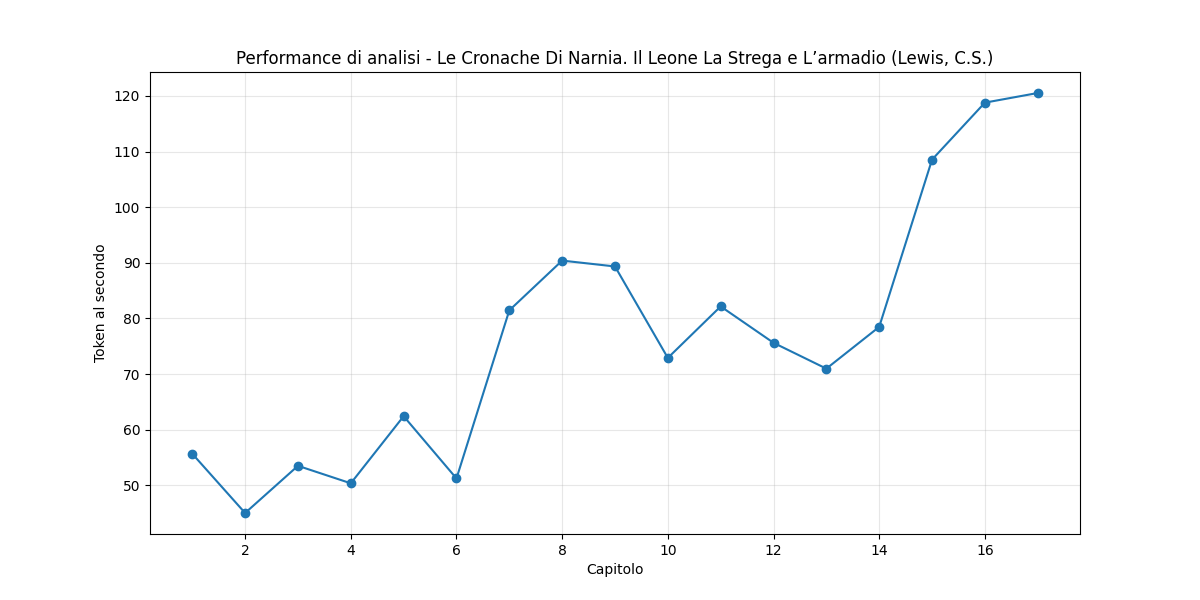
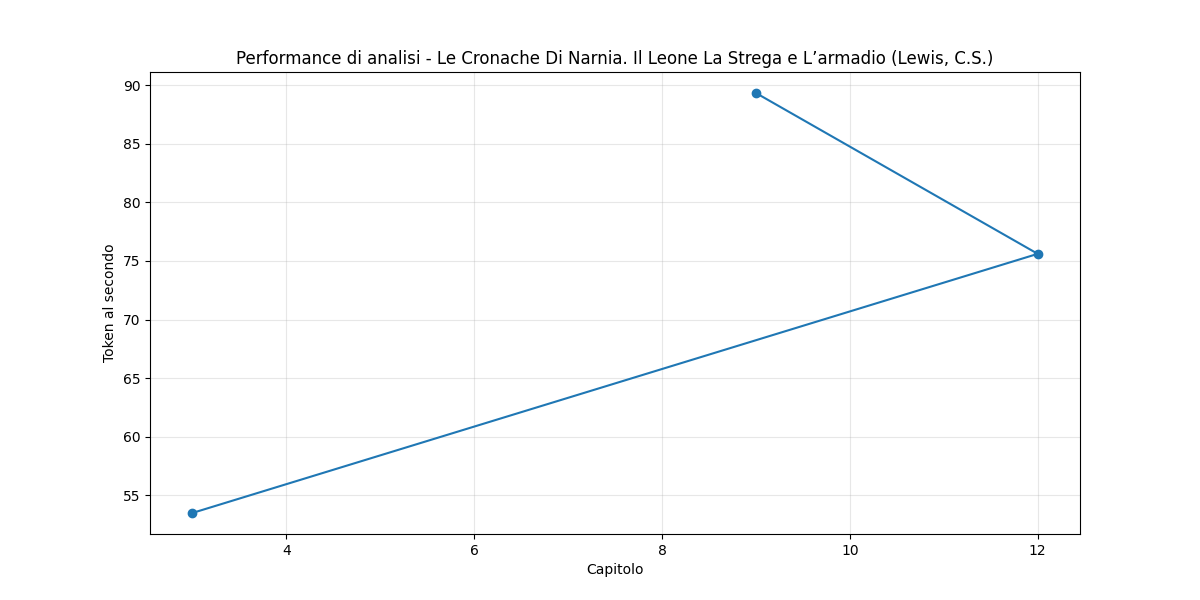
stats are now on 3 chapters and changed to analysis.py weights

diff --git a/stats_generator.py b/stats_generator.py
@@ -14,6 +14,7 @@ import numpy as np
 import matplotlib.pyplot as plt
 import pandas as pd
 import seaborn as sns
+import random
 try:
     import networkx as nx
 except ImportError:
@@ -35,20 +36,60 @@ logging.basicConfig(
 # Costanti
 PAGE_SIZE = 3300  # Deve essere lo stesso della GUI e di analysis.py
 
-# Configurazione dei pesi per la scelta del luogo principale (copiata da analysis.py)
+## Configurazione dei pesi per la scelta del luogo principale
 LOCATION_WEIGHTS = {
-    "occurrence": 0.3,    # Peso per il numero di occorrenze
-    "confidence": 10,     # Peso per la confidenza di BERT
-    "early_appearance": 3,  # Peso per l'apparizione all'inizio
-    "spacy_loc_bonus": 0.2   # Bonus se riconosciuto come LOC da spaCy
+    "occurrence": 0.0223,    # Peso per il numero di occorrenze
+    "confidence": 0.7407,    # Peso per la confidenza di BERT
+    "early_appearance": 0.2222,  # Peso per l'apparizione all'inizio
+    "spacy_loc_bonus": 0.0148   # Bonus se riconosciuto come LOC da spaCy
 }
 
 # Configurazione dei pesi per la scelta del personaggio principale
 CHARACTER_WEIGHTS = {
-    "occurrence": 1,       # Peso per il numero di occorrenze
-    "early_appearance": 2, # Peso per l'apparizione all'inizio
-    "spacy_per_bonus": 0.5 # Bonus se riconosciuto come PER da spaCy
+    "occurrence": 0.2857,    # Peso per il numero di occorrenze
+    "early_appearance": 0.5714,  # Peso per l'apparizione all'inizio
+    "spacy_per_bonus": 0.1428 # Bonus se riconosciuto come PER da spaCy
 }
+
+
+
+
+
+
+
+
+
+
+
+
+def select_random_chapters(chapter_files, book_name, num_chapters=3, seed=None):
+    """
+    Seleziona un numero specificato di capitoli in modo casuale ma consistente.
+    
+    Args:
+        chapter_files: Lista di tutti i file dei capitoli
+        book_name: Nome del libro (usato per generare un seed consistente)
+        num_chapters: Numero di capitoli da selezionare (default: 3)
+        seed: Seed opzionale per il generatore casuale
+        
+    Returns:
+        Lista dei file di capitoli selezionati casualmente
+    """
+    if len(chapter_files) <= num_chapters:
+        return chapter_files  # Se ci sono meno capitoli del richiesto, restituisci tutti
+    
+    # Crea un seed consistente basato sul nome del libro
+    if seed is None:
+        # Usa una funzione hash semplice sul nome del libro come seed
+        seed = sum(ord(c) for c in book_name)
+    
+    # Imposta il seed per la riproducibilità
+    random_state = random.Random(seed)
+    
+    # Selezione casuale senza ripetizione
+    return random_state.sample(chapter_files, num_chapters)
+
+
 
 
 
@@ -83,9 +124,15 @@ def count_tokens_from_csv(file_path):
 
 
 
-def generate_stats_file(book_name, output_dir):
+def generate_stats_file(book_name, output_dir, random_selection=True, num_chapters=3, seed=None):
     """
     Genera un file CSV di statistiche aggregando i dati dei capitoli analizzati.
+    
+    Args:
+        book_name: Nome del libro
+        output_dir: Directory con i file di analisi
+        random_selection: Se True, seleziona capitoli random
+        num_chapters: Numero di capitoli da selezionare casualmente
     """
     stats_file = os.path.join(output_dir, f"stats-{book_name}.csv")
     chapter_files = []
@@ -102,6 +149,18 @@ def generate_stats_file(book_name, output_dir):
     # Ordina i file per numero di capitolo
     chapter_files.sort(key=lambda x: int(x.split("capitolo")[1].split("-")[0]))
     
+    # Selezione casuale se richiesto
+    if random_selection and len(chapter_files) > num_chapters:
+        selected_chapters = select_random_chapters(chapter_files, book_name, num_chapters, seed)
+        print(f"Selezionati {len(selected_chapters)} capitoli casuali su {len(chapter_files)} disponibili:")
+        for file in selected_chapters:
+            chapter_num = int(file.split("capitolo")[1].split("-")[0])
+            print(f"  - Capitolo {chapter_num}")
+    else:
+        selected_chapters = chapter_files
+        if random_selection:
+            print(f"Utilizzati tutti i {len(selected_chapters)} capitoli disponibili (meno di {num_chapters} richiesti)")
+
     try:
         # Crea il file di statistiche
         with open(stats_file, "w", newline='', encoding="utf-8") as f:
@@ -221,7 +280,7 @@ def count_tokens(text):
 
 
 # In analyze_token_metrics()
-def analyze_token_metrics(book_name, output_dir):
+def analyze_token_metrics(book_name, output_dir, random_selection=True, num_chapters=3, seed=None):
     """
     Analizza la correlazione tra numero di token e qualità dell'analisi.
     """
@@ -236,10 +295,22 @@ def analyze_token_metrics(book_name, output_dir):
     # Ordina i file per numero di capitolo
     chapter_files.sort(key=lambda x: int(x.split("capitolo")[1].split("-")[0]))
     
+    # Selezione casuale se richiesto
+    if random_selection and len(chapter_files) > num_chapters:
+        selected_chapters = select_random_chapters(chapter_files, book_name, num_chapters, seed)
+        print(f"Selezionati {len(selected_chapters)} capitoli casuali su {len(chapter_files)} disponibili:")
+        for file in selected_chapters:
+            chapter_num = int(file.split("capitolo")[1].split("-")[0])
+            print(f"  - Capitolo {chapter_num}")
+    else:
+        selected_chapters = chapter_files
+        if random_selection:
+            print(f"Utilizzati tutti i {len(selected_chapters)} capitoli disponibili (meno di {num_chapters} richiesti)")
+
     # Prepara i dati per il CSV
     metrics_data = []
     
-    for chapter_file in chapter_files:
+    for chapter_file in selected_chapters:
         try:
             chapter_num = int(chapter_file.split("capitolo")[1].split("-")[0])
             file_path = os.path.join(output_dir, chapter_file)
@@ -694,7 +765,8 @@ def generate_confusion_matrix_chart(confusion_matrix, categories, output_file):
 
 
 
-def analyze_context_consistency(book_name, output_dir):
+# In analyze_context_consistency()
+def analyze_context_consistency(book_name, output_dir, random_selection=True, num_chapters=3, seed=None):
     """
     Analizza la coerenza del contesto tra capitoli adiacenti.
     """
@@ -709,12 +781,24 @@ def analyze_context_consistency(book_name, output_dir):
     # Ordina i file per numero di capitolo
     chapter_files.sort(key=lambda x: int(x.split("capitolo")[1].split("-")[0]))
     
+    # Selezione casuale se richiesto
+    if random_selection and len(chapter_files) > num_chapters:
+        selected_chapters = select_random_chapters(chapter_files, book_name, num_chapters, seed)
+        print(f"Selezionati {len(selected_chapters)} capitoli casuali su {len(chapter_files)} disponibili:")
+        for file in selected_chapters:
+            chapter_num = int(file.split("capitolo")[1].split("-")[0])
+            print(f"  - Capitolo {chapter_num}")
+    else:
+        selected_chapters = chapter_files
+        if random_selection:
+            print(f"Utilizzati tutti i {len(selected_chapters)} capitoli disponibili (meno di {num_chapters} richiesti)")
+    
     # Prepara i dati per il CSV
     metrics_data = []
     
     # Carica i dati di ogni capitolo
     chapter_data_dict = {}
-    for chapter_file in chapter_files:
+    for chapter_file in selected_chapters:
         try:
             chapter_num = int(chapter_file.split("capitolo")[1].split("-")[0])
             file_path = os.path.join(output_dir, chapter_file)
@@ -948,23 +1032,33 @@ def main():
                         help="Valuta l'accuratezza del modello BERT per luoghi")
     parser.add_argument("--test-data", type=str,
                         help="File JSON con dati di test per BERT")
+    parser.add_argument("--random-chapters", type=int, default=3,
+                        help="Numero di capitoli da selezionare casualmente (0 = tutti)")
     
     args = parser.parse_args()
     
-    print(f"Generazione statistiche per '{args.book}' in {args.dir}")
+    random_selection = args.random_chapters > 0
+    num_chapters = args.random_chapters if random_selection else len(os.listdir(args.dir))
+    
+    # Genera un seed consistente basato sul nome del libro
+    if random_selection:
+        seed = sum(ord(c) for c in args.book)
+        print(f"Modalità selezione casuale: {num_chapters} capitoli (seed: {seed})")
+    else:
+        seed = None
     
     try:
         # Genera il file di statistiche
         print("\n1. Generazione file di statistiche...")
-        stats_file = generate_stats_file(args.book, args.dir)
+        stats_file = generate_stats_file(args.book, args.dir, random_selection, num_chapters, seed)
         
         # Analizza le metriche dei token
         print("\n2. Analisi delle metriche dei token...")
-        token_metrics_file = analyze_token_metrics(args.book, args.dir)
+        token_metrics_file = analyze_token_metrics(args.book, args.dir, random_selection, num_chapters, seed)
         
         # Analizza la coerenza del contesto
         print("\n3. Analisi della coerenza del contesto tra capitoli...")
-        context_metrics_file = analyze_context_consistency(args.book, args.dir)
+        context_metrics_file = analyze_context_consistency(args.book, args.dir, random_selection, num_chapters, seed)
         
         # Valuta il modello BERT se richiesto
         if args.evaluate_bert:
